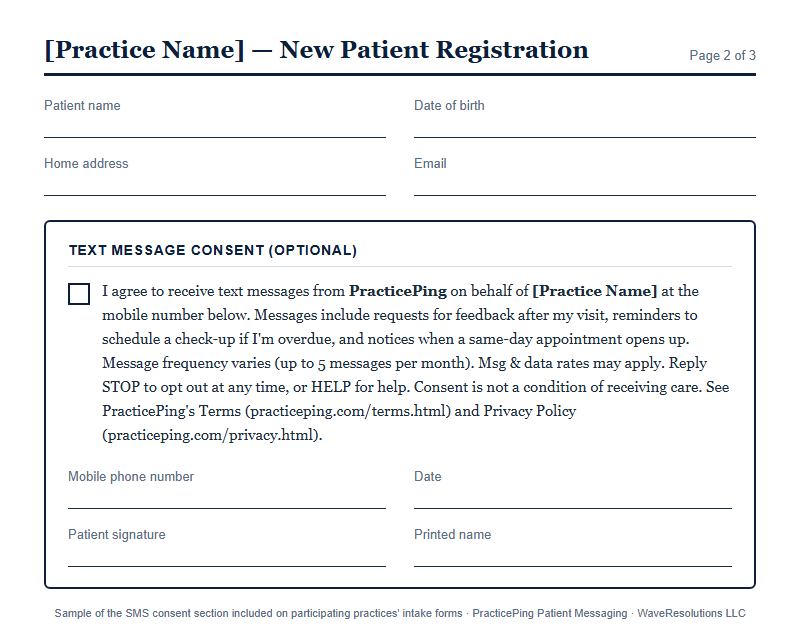
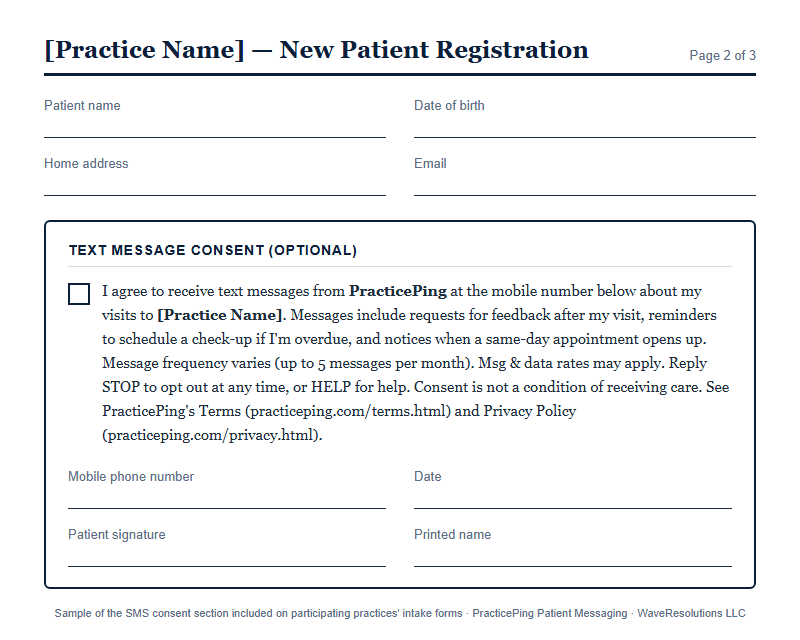
Name PracticePing as the only SMS sender in consent wording
A2P pre-check read "on behalf of [Practice Name]" as consent to a
second company. Consent is now for PracticePing texts about the
patient's visits to the practice.

Changed region(s): [[0.125, 0.4375, 0.9062, 0.5625]]

diff --git a/sms-consent.html b/sms-consent.html
@@ -40,7 +40,7 @@
   <h1>How Patients Consent to Text Messages</h1>
   <p class="updated">PracticePing Patient Messaging · Last updated: September 29, 2026</p>
 
-  <p>PracticePing sends text messages, on behalf of participating medical practices, only to patients who have consented to receive them. Patients give consent in one of three ways: by checking the SMS consent box on the practice's intake form, verbally to practice staff (who read the script below and record the consent), or by checking the optional SMS consent box on the practice's online appointment request form. Consent is optional and is not a condition of receiving care.</p>
+  <p>PracticePing sends text messages only to patients of participating medical practices who have consented to receive PracticePing messages. Patients give consent in one of three ways: by checking the SMS consent box on the practice's intake form, verbally to practice staff (who read the script below and record the consent), or by checking the optional SMS consent box on the practice's online appointment request form. Consent is optional and is not a condition of receiving care.</p>
 
   <h2>1. Paper patient intake form</h2>
   <p>Participating practices include the following SMS consent section on their patient intake/registration form. The patient checks the box, writes their mobile number, and signs.</p>
@@ -49,7 +49,7 @@
     <h3>Text Message Consent (optional)</h3>
     <div class="check">
       <div class="box"></div>
-      <p>I agree to receive text messages from <strong>PracticePing</strong> on behalf of <strong>[Practice Name]</strong> at the mobile number below. Messages include requests for feedback after my visit, reminders to schedule a check-up if I'm overdue, and notices when a same-day appointment opens up. Message frequency varies (up to 5 messages per month). Msg &amp; data rates may apply. Reply STOP to opt out at any time, or HELP for help. Consent is not a condition of receiving care. See PracticePing's Terms (practiceping.com/terms.html) and Privacy Policy (practiceping.com/privacy.html).</p>
+      <p>I agree to receive text messages from <strong>PracticePing</strong> at the mobile number below about my visits to <strong>[Practice Name]</strong>. Messages include requests for feedback after my visit, reminders to schedule a check-up if I'm overdue, and notices when a same-day appointment opens up. Message frequency varies (up to 5 messages per month). Msg &amp; data rates may apply. Reply STOP to opt out at any time, or HELP for help. Consent is not a condition of receiving care. See PracticePing's Terms (practiceping.com/terms.html) and Privacy Policy (practiceping.com/privacy.html).</p>
     </div>
     <div class="fields">
       <div>Patient name<div class="line"></div></div>
@@ -64,7 +64,7 @@
   <h2>2. Verbal consent at check-in or by phone</h2>
   <p>When a patient gives consent in person or by phone, front-desk staff read this script word for word:</p>
   <div class="script">
-    "Would you like to receive text messages at your mobile number from PracticePing, the service [Practice Name] uses to ask for feedback after your visit, remind you to schedule a check-up if you're overdue, and let you know when a same-day appointment opens up. It's up to 5 messages a month, and message and data rates may apply. You can reply STOP at any time to opt out, or HELP for help. Saying yes is optional and doesn't affect your care. Would you like to receive these texts?"
+    "Would you like to receive text messages from PracticePing at your mobile number about your visits to [Practice Name]? PracticePing will ask for feedback after your visit, remind you to schedule a check-up if you're overdue, and let you know when a same-day appointment opens up. It's up to 5 messages a month, and message and data rates may apply. You can reply STOP at any time to opt out, or HELP for help. Saying yes is optional and doesn't affect your care. Would you like to receive these texts?"
   </div>
   <p>Staff record the patient's answer, the mobile number, the date, and the staff member's name in the practice's patient record. PracticePing only sends messages to numbers the practice has marked as consented.</p>
 
@@ -74,7 +74,7 @@
     <h3>Online form checkbox (unchecked by default)</h3>
     <div class="check">
       <div class="box"></div>
-      <p>I agree to receive text messages from <strong>PracticePing</strong> on behalf of <strong>[Practice Name]</strong> about my appointment request (such as available appointment times). Message frequency varies. Msg &amp; data rates may apply. Reply STOP to opt out or HELP for help. Consent is optional and not required to request an appointment. See PracticePing's Terms (practiceping.com/terms.html) and Privacy Policy (practiceping.com/privacy.html).</p>
+      <p>I agree to receive text messages from <strong>PracticePing</strong> about my appointment request with <strong>[Practice Name]</strong> (such as available appointment times). Message frequency varies. Msg &amp; data rates may apply. Reply STOP to opt out or HELP for help. Consent is optional and not required to request an appointment. See PracticePing's Terms (practiceping.com/terms.html) and Privacy Policy (practiceping.com/privacy.html).</p>
     </div>
   </div>
   <p>The checkbox value is stored with the request. Practice staff can reply to the request by text only if the patient checked the box; otherwise they reply by email or phone.</p>

diff --git a/terms.html b/terms.html
@@ -36,7 +36,7 @@
   <h2>1. SMS Program Terms</h2>
   <div class="callout">
     <p><strong>Program name:</strong> PracticePing Patient Messaging</p>
-    <p><strong>Program description:</strong> Patients of participating medical practices receive text messages from PracticePing on behalf of their practice: requests for feedback after a visit, reminders to schedule a check-up when they are overdue, notices when a same-day appointment opens up, and replies to appointment requests the patient submitted online. Every message begins with "PracticePing for [Practice Name]:" so patients know who it is from.</p>
+    <p><strong>Program description:</strong> Patients of participating medical practices receive text messages from PracticePing about their visits: requests for feedback after a visit, reminders to schedule a check-up when they are overdue, notices when a same-day appointment opens up, and replies to appointment requests the patient submitted online. Every message begins with "PracticePing for [Practice Name]:" so patients know who it is from.</p>
     <p><strong>How you join:</strong> You receive these messages only if you consented through your medical practice, on the practice's patient intake form, verbally to practice staff, or by checking the optional SMS box on the practice's online appointment request form. See our <a href="/sms-consent.html">SMS consent page</a>. Consent is not a condition of receiving care or making any purchase.</p>
     <p><strong>Message frequency:</strong> Message frequency varies; up to 5 messages per month per practice.</p>
     <p><strong>Msg &amp; data rates may apply.</strong></p>

diff --git a/privacy.html b/privacy.html
@@ -42,7 +42,7 @@
 
   <h2>2. How We Use Information</h2>
   <ul>
-    <li>To send patients, on behalf of their medical practice, requests for feedback after a visit, reminders to schedule a check-up when they are overdue, notices when a same-day appointment opens up, and replies to appointment requests the patient submitted online</li>
+    <li>To send patients of participating medical practices PracticePing text messages: requests for feedback after a visit, reminders to schedule a check-up when they are overdue, notices when a same-day appointment opens up, and replies to appointment requests the patient submitted online</li>
     <li>To process opt-out and help requests and keep consent records up to date</li>
     <li>To operate, secure, and improve the PracticePing platform</li>
     <li>To respond to practice inquiries and support requests</li>
